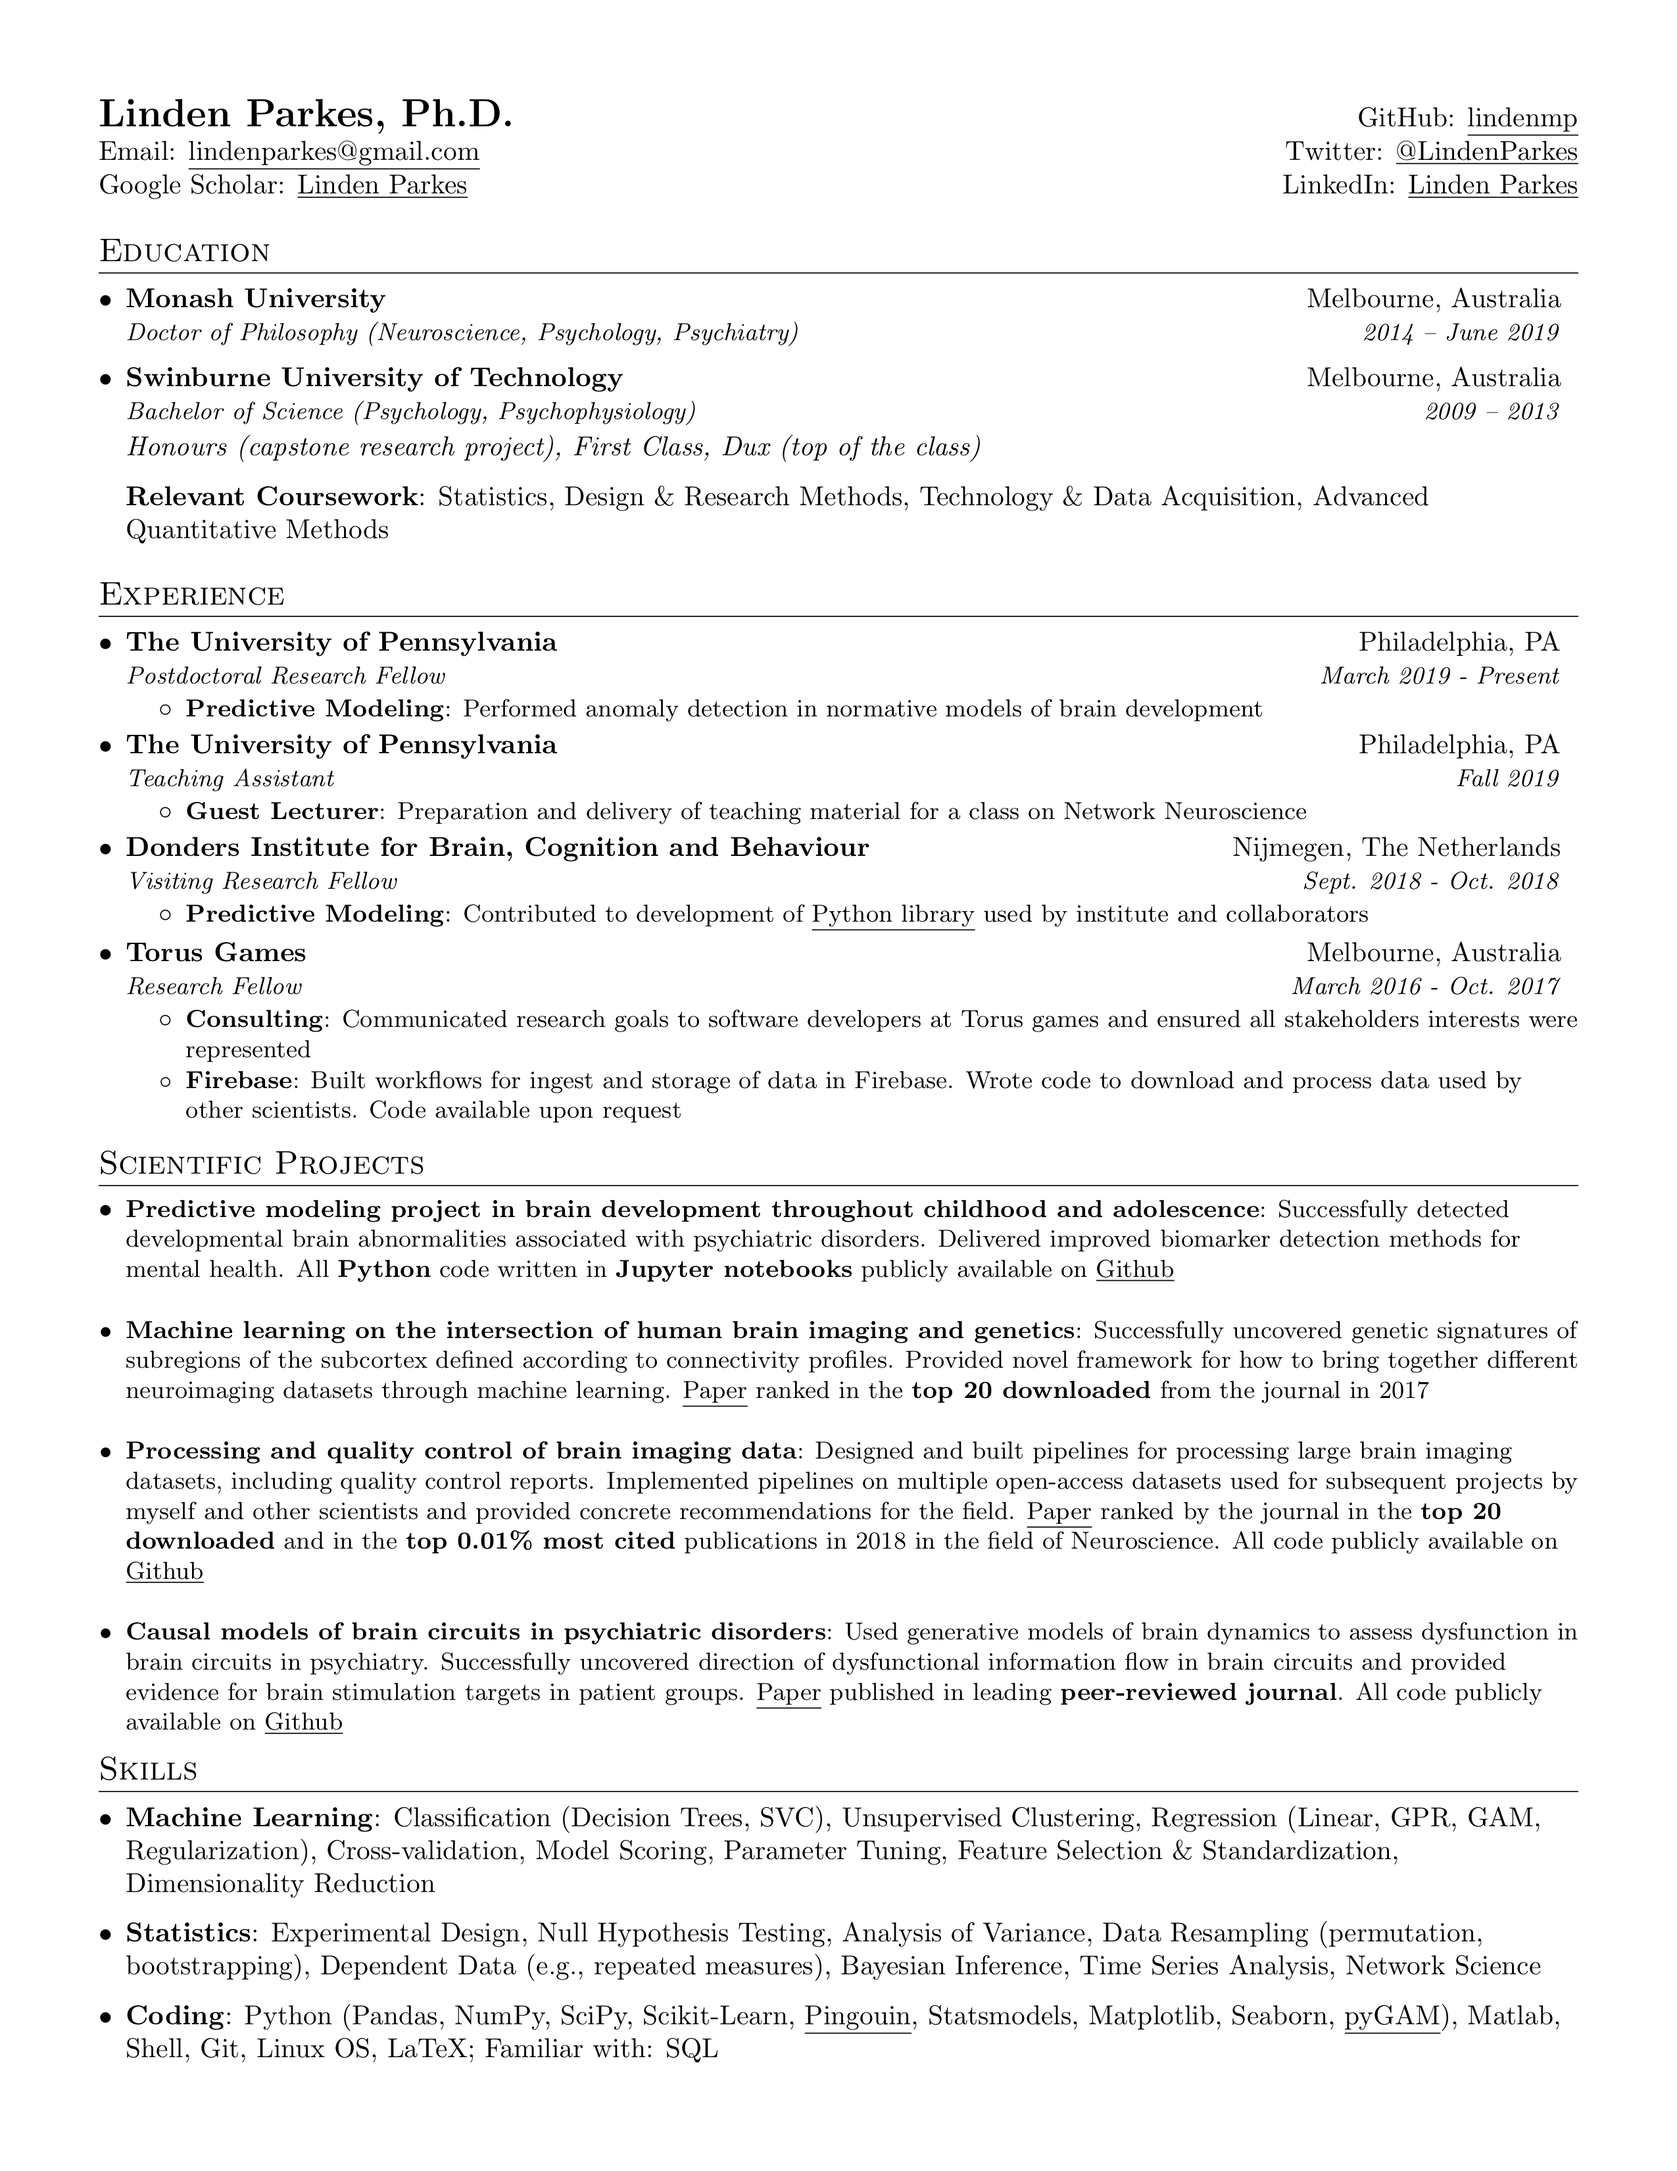
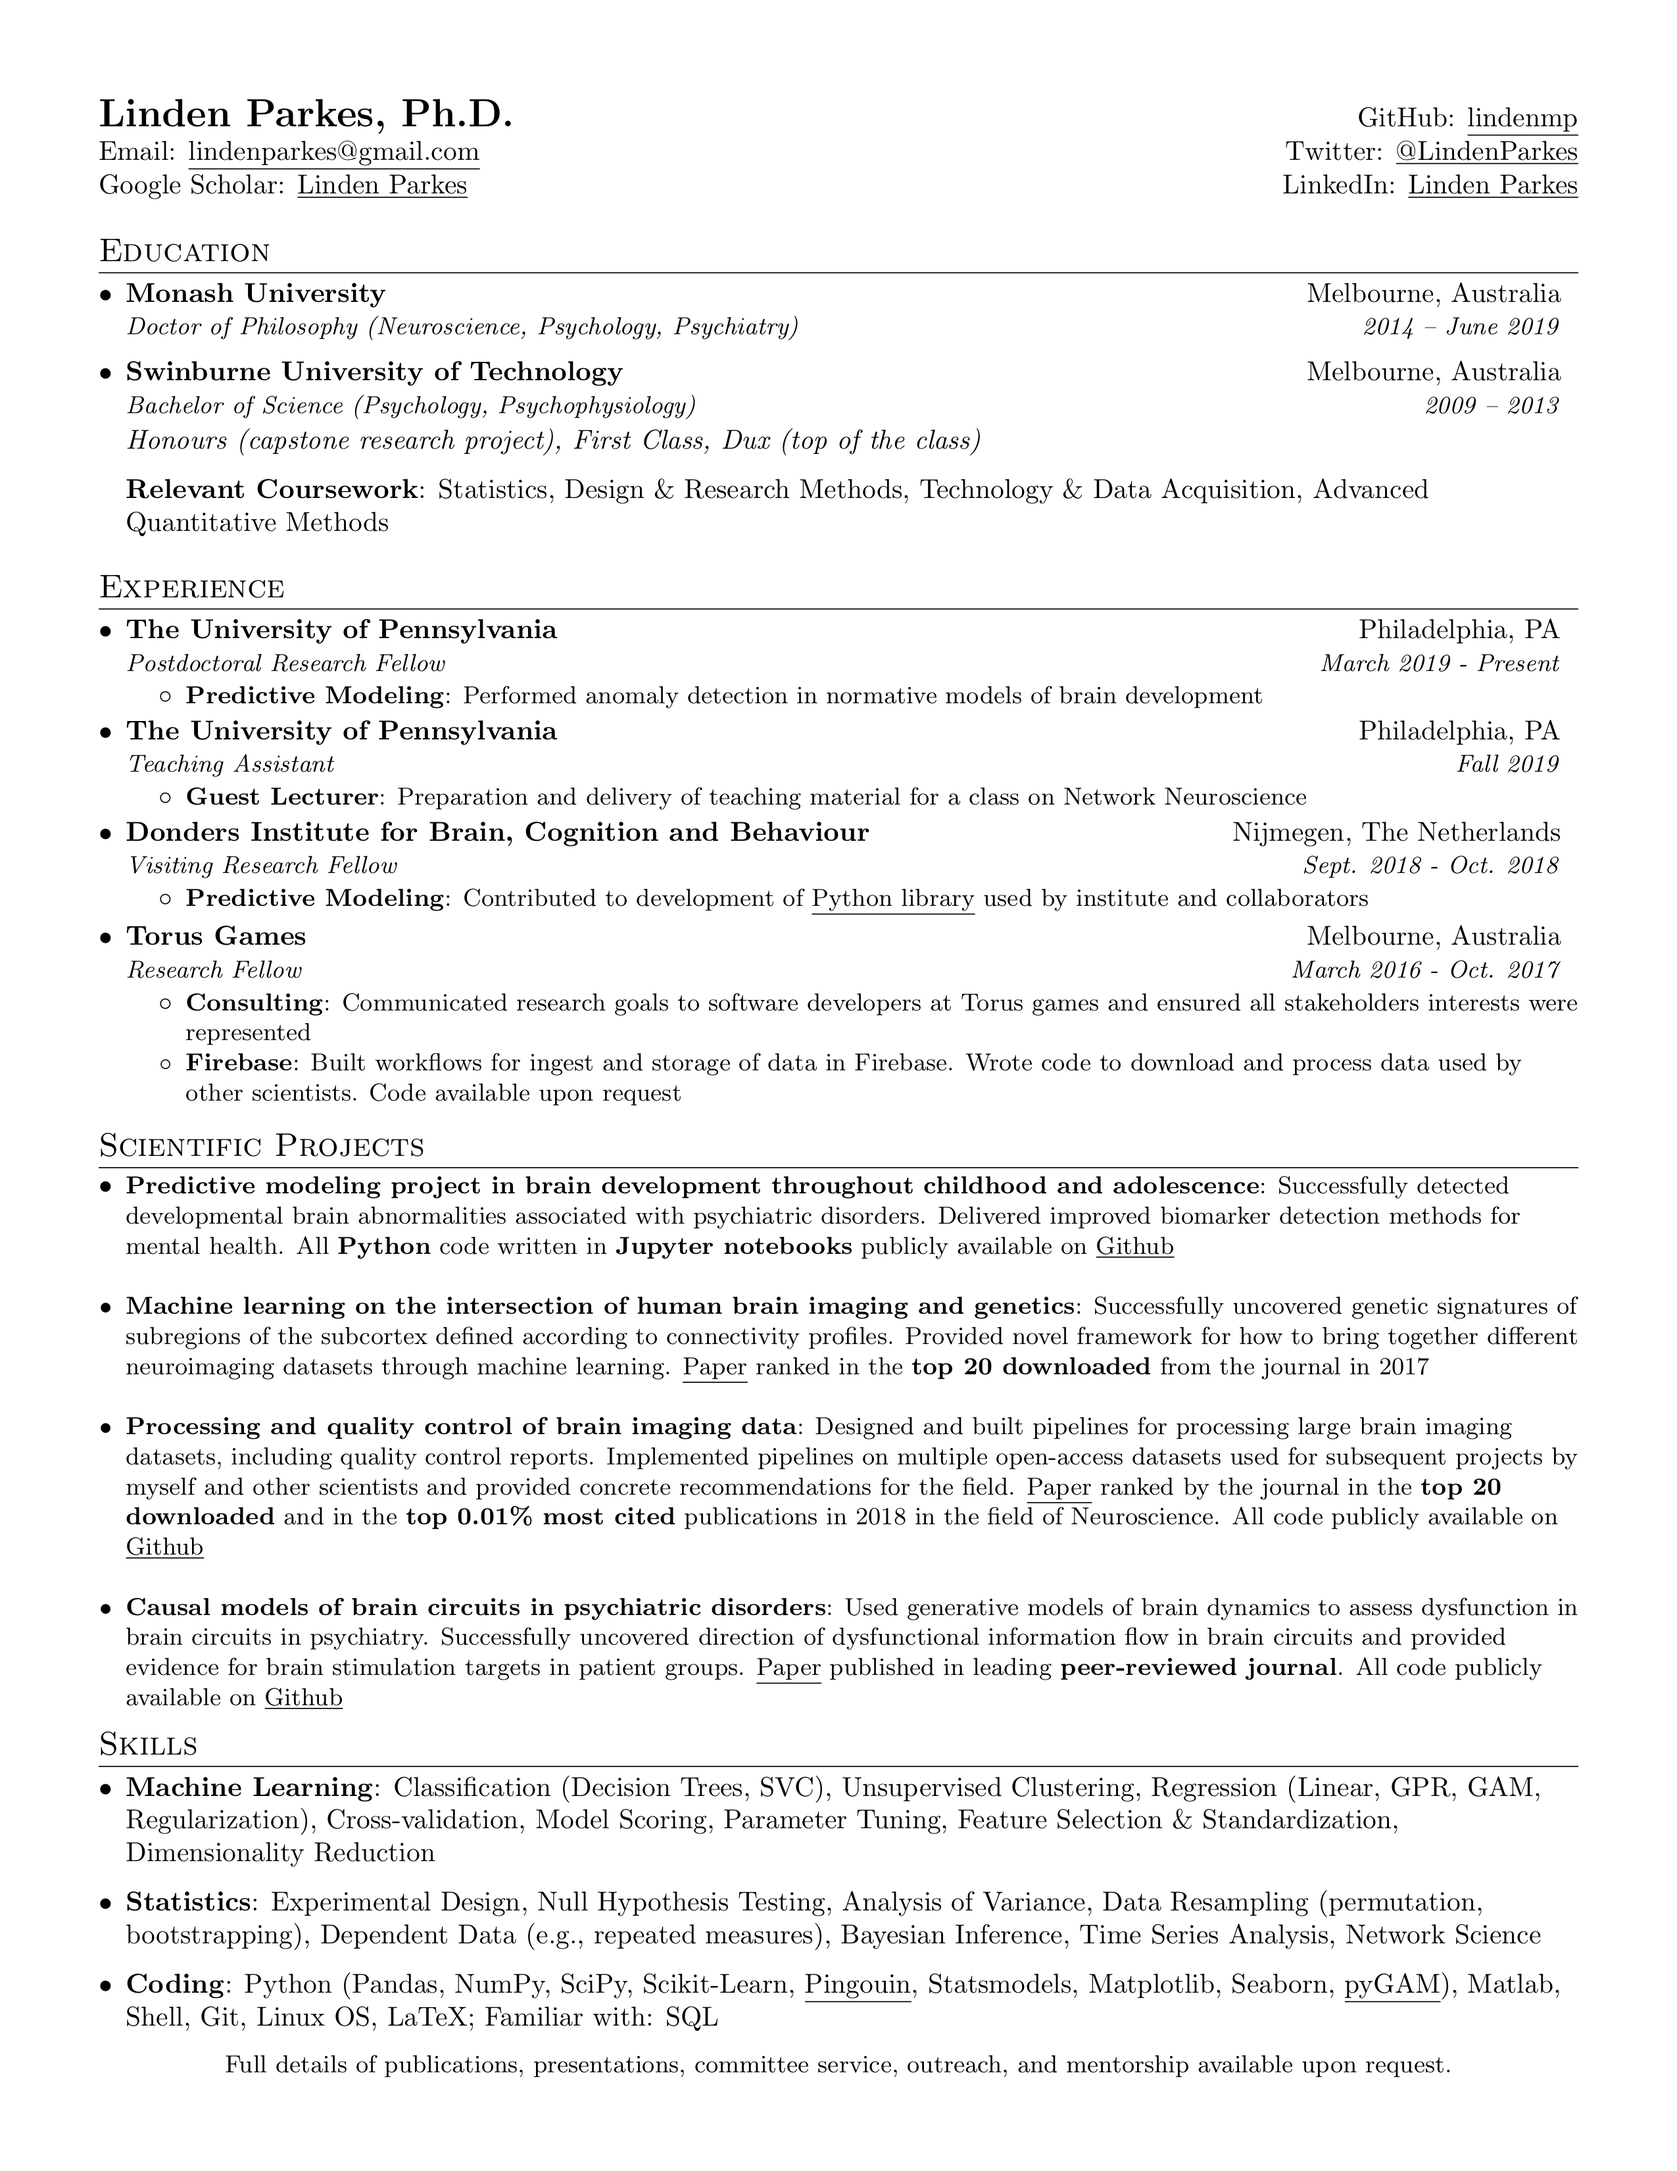
Added small line at bottom re: stuff that didn't fit! (papers, presentations, committees etc.)

diff --git a/parkes_linden_cv.tex b/parkes_linden_cv.tex
@@ -40,7 +40,7 @@
 % Sections formatting
 \titleformat{\section}{
   \vspace{-4pt}\scshape\raggedright\large
-}{}{0em}{}[\color{black}\titlerule \vspace{-5pt}]
+}{}{0em}{}[\color{black}\titlerule \vspace{-7pt}]
 
 %-------------------------
 % Custom commands
@@ -191,6 +191,7 @@
     }
  \resumeSubHeadingListEnd
 
+\centerline{\small{Full details of publications, presentations, committee service, outreach, and mentorship available upon request.}}
 
 %-------------------------------------------
 \end{document}
